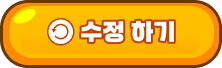
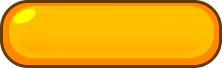
fix: 4-5 단원완료

Changed region(s): [[0.1892, 0.2647, 0.8108, 0.6765]]

diff --git a/HighScholl-5/1-1/H-511-12.html b/HighScholl-5/1-1/H-511-12.html
@@ -175,7 +175,7 @@
 						<div class="btn_con">
 							<button id="btn1" class="a_btn a_btn01" type="submit" aria-label="제출하기" tabindex="0">제출하기</button>
 							
-							<button id="btn1_1" class="a_btn a_btn02" type="submit" aria-label="수정하기" style="display:none;" tabindex="0"></button>
+							<button id="btn1_1" class="a_btn a_btn02" type="submit"  aria-label="다시 제출하기" style="display:none;" tabindex="0">다시 제출하기</button>
 						</div>
 
 						<div class="popup_con_bg popup01"></div>
@@ -195,11 +195,12 @@
 		<script>
 			const child = new ClientAPI(); //본 코드는 데이터 전송 페이지마다 각각 별도로 들어있어야 하고, 내부 스크립트의 최상단에 위치해야함. 
 
-			//페이지 제어 시작
-			const parentURL = new URL(document.referrer);
-			window.parent.postMessage({
-				actCd: "cont"
-			}, parentURL.origin);
+    if (document.referrer) {
+        const parentURL = new URL(document.referrer);
+        window.parent.postMessage({
+            actCd: "cont"
+        }, parentURL.origin);
+    }
 
 			//제출 여부 받아서 버튼 제어
 			child.receiveMessage((data)=>{
@@ -264,6 +265,10 @@
 					$(".H_511_12_con > .contents_con > .contents_con > form .popup_con_bg.popup02").fadeOut();
 					$(".H_511_12_con > .contents_con > .contents_con > form .popup_con.popup02").fadeOut();
 				}, 1000);
+				
+				// 버튼 전환
+				$("#btn1").hide();
+				$("#btn1_1").show();
 
 				//페이지 제어 종료
 				window.parent.postMessage({

diff --git a/HighScholl-5/2-2/H-522-07.html b/HighScholl-5/2-2/H-522-07.html
@@ -933,6 +933,7 @@
 				$(document).on("click", ".H_522_07_con > .contents_con > .popup_con > .contents_con > .contents_con > .contents_con .contents_div.popup_info01 > .contents_con > .list_con > ul > li:nth-child(2) > .list_div > .box_con > .contents_con > .group.group04 .cursor02", function() {
 					$(".H_522_07_con > .contents_con > .popup_con > .contents_con > .contents_con > .contents_con .contents_div.popup_info01 > .contents_con > .list_con > ul > li:nth-child(3)").show();
 					$(".H_522_07_con > .contents_con > .popup_con > .contents_con > .contents_con > .contents_con .contents_div.popup_info01 > .contents_con > .list_con > ul > li:nth-child(2)").hide();
+					$(".H_522_07_con > .contents_con > .popup_con > .contents_con > .contents_con > .contents_con .contents_div.popup_info01 > .contents_con > .list_con > ul > li > .list_div > .box_con > .contents_con > .btn_con .a_btn").show();
 				});
 
 				// 초기화 버튼 기능 추가

diff --git a/HighScholl-1/1-1/H-111-18.html b/HighScholl-1/1-1/H-111-18.html
@@ -195,10 +195,12 @@
 			const child = new ClientAPI();
 
 			//페이지 제어 시작
-			const parentURL = new URL(document.referrer);
-			window.parent.postMessage({
-			actCd : "cont"
-			} ,parentURL.origin);
+    if (document.referrer) {
+        const parentURL = new URL(document.referrer);
+        window.parent.postMessage({
+            actCd: "cont"
+        }, parentURL.origin);
+    }
 
 
 			// 제출 여부 받아서 버튼 제어
